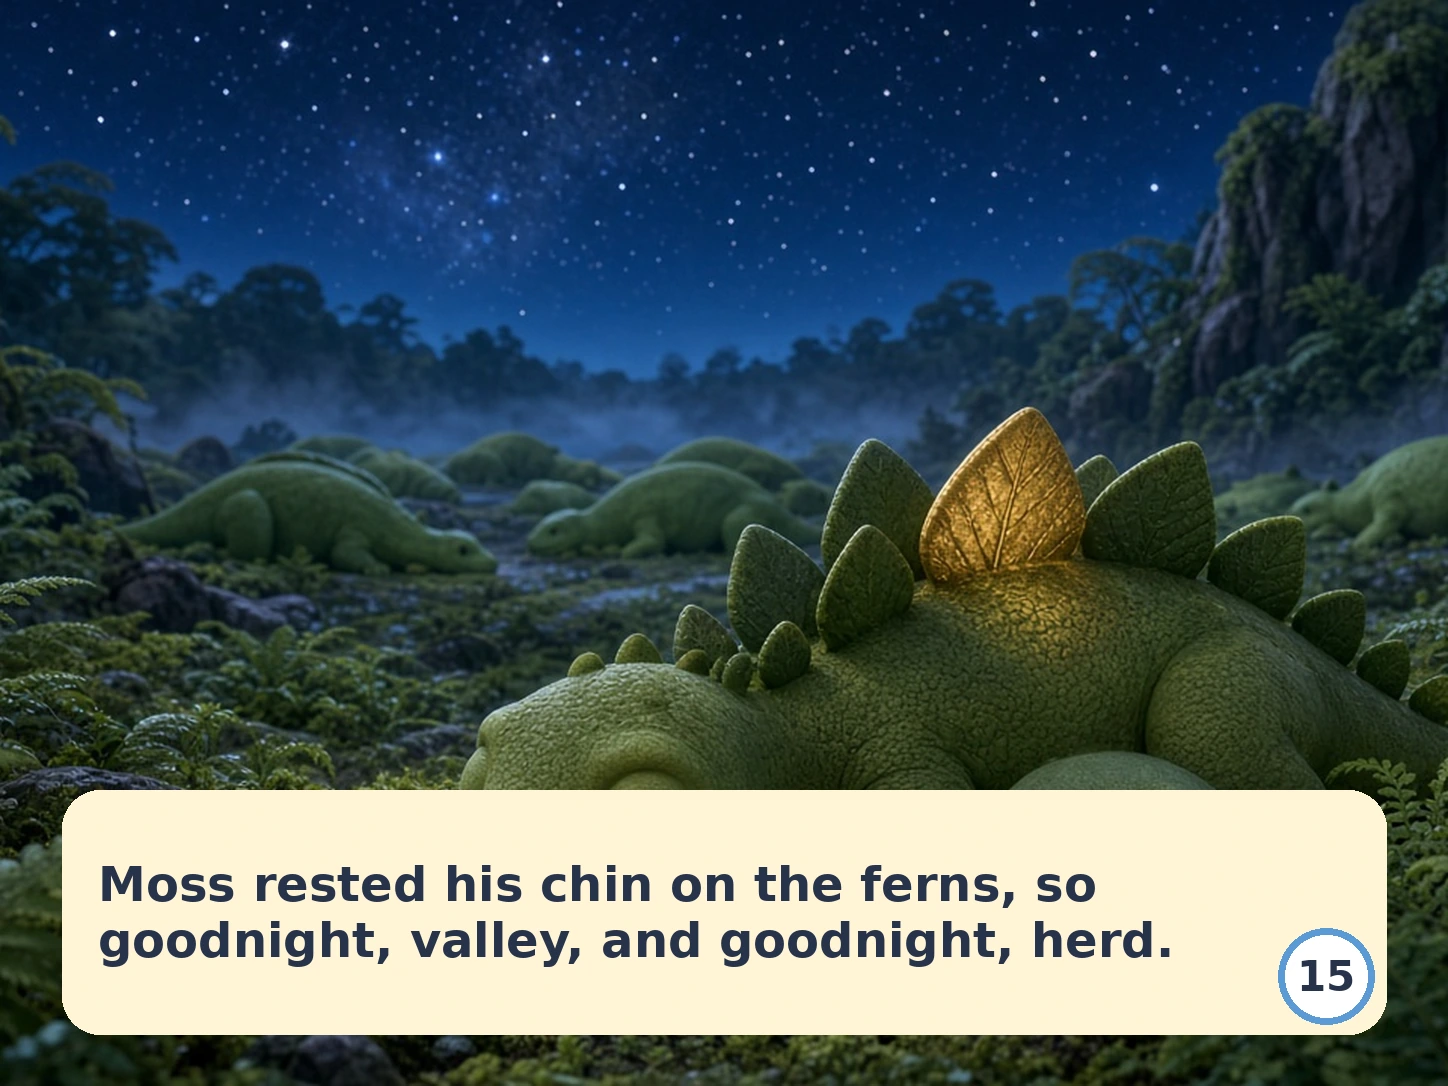
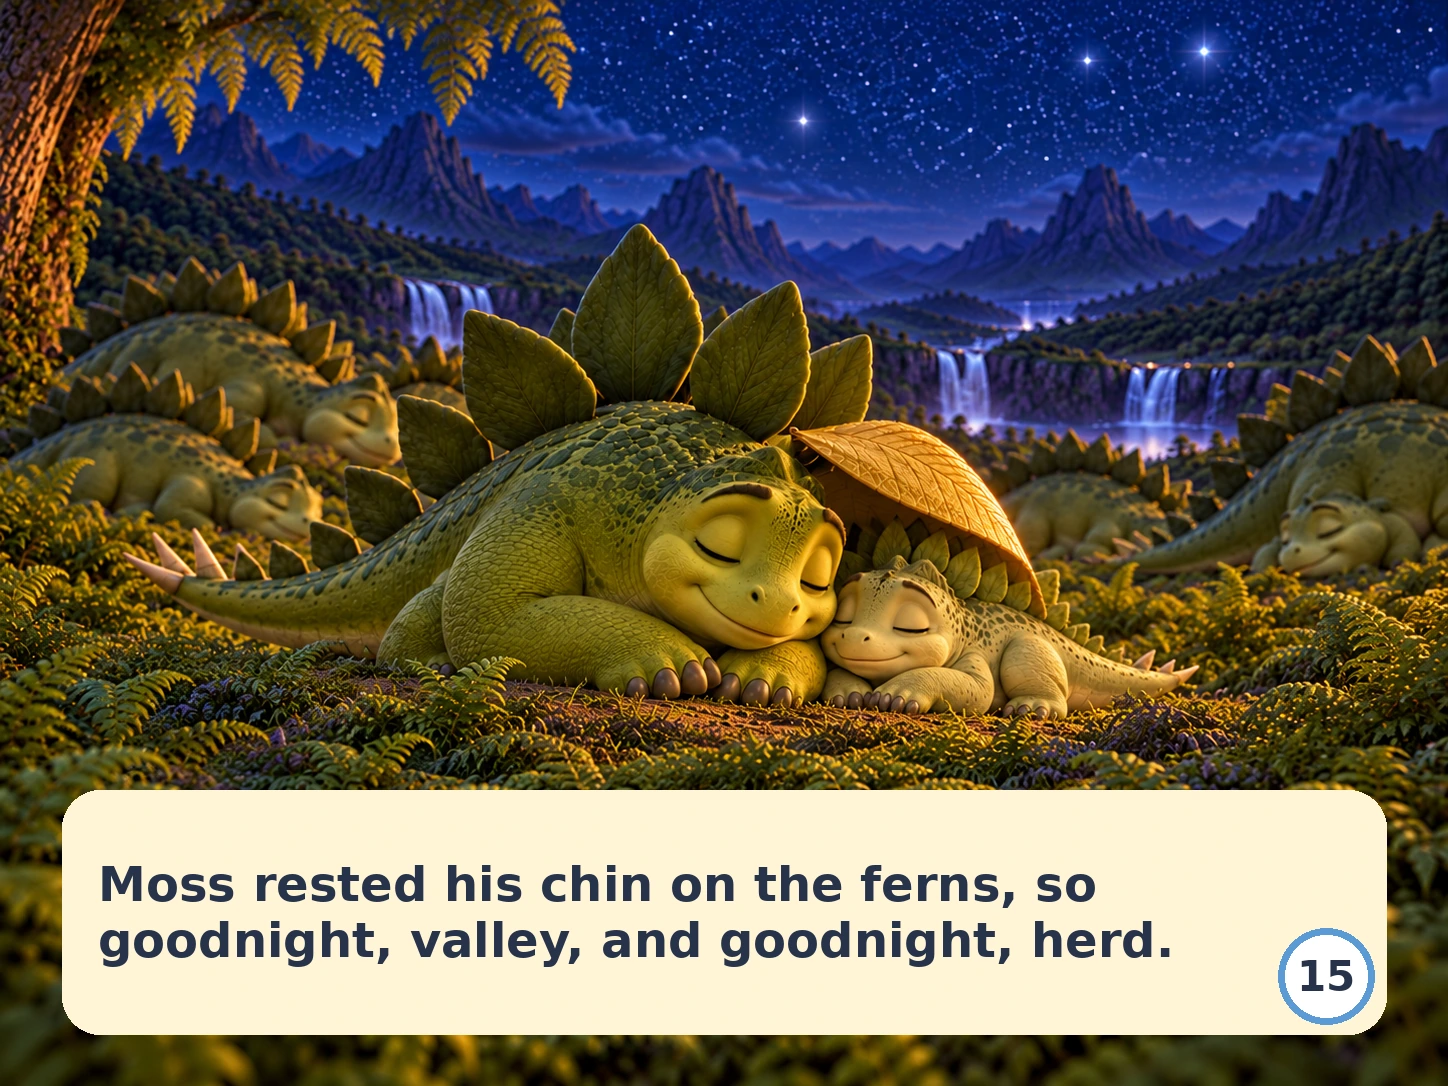
Replace Moss pages 13-15 with redo art (measured subject bounds clear the caption panel); bump cache to v119

diff --git a/sw.js b/sw.js
@@ -1,4 +1,4 @@
-const CACHE='nolan-library-v117';
+const CACHE='nolan-library-v119';
 const CORE=['mobile.css','mobile.js','ui-smoke-test.mjs','ui-smoke-helpers.mjs','assets/fonts/nunito-regular.ttf','assets/fonts/nunito-extrabold.ttf','assets/fonts/OFL.txt','redesign.css','quizmo/cogat.js','quizmo/cogat-smoke-test.mjs','quizmo/quizmo.js','quizmo/quizmo.css','quizmo/smoke-test.mjs','quizmo/points-smoke-test.mjs','quizmo/reset-smoke-test.mjs','./','index.html','styles.css','app.js','config/narration-voices.json','manifest.webmanifest','assets/icons/icon-192.png','assets/icons/icon-512.png','videos/videos.js','videos/videos.css','games/games.js','games/games.css','games/games-1-5.js','games/journeys.js','games/phonics.js','games/art/lulu.svg','games/art/sunny.svg','games/art/rhymo.svg','games/art/bo.svg','games/art/fam.svg','games/art/tap-tap.svg','games/smoke-test.mjs','games/art/rollo.svg','games/art/dax.svg','games/art/bex.svg','games/art/zumi.svg','games/art/otto.svg','games/art/kip.svg','games/journeys.css','assets/narration/manifest.json','narration-smoke-test.mjs',];
 self.addEventListener('install',e=>e.waitUntil(caches.open(CACHE).then(c=>c.addAll(CORE)).then(()=>self.skipWaiting())));
 self.addEventListener('activate',e=>e.waitUntil(caches.keys().then(keys=>Promise.all(keys.filter(k=>k!==CACHE).map(k=>caches.delete(k)))).then(()=>self.clients.claim())));
